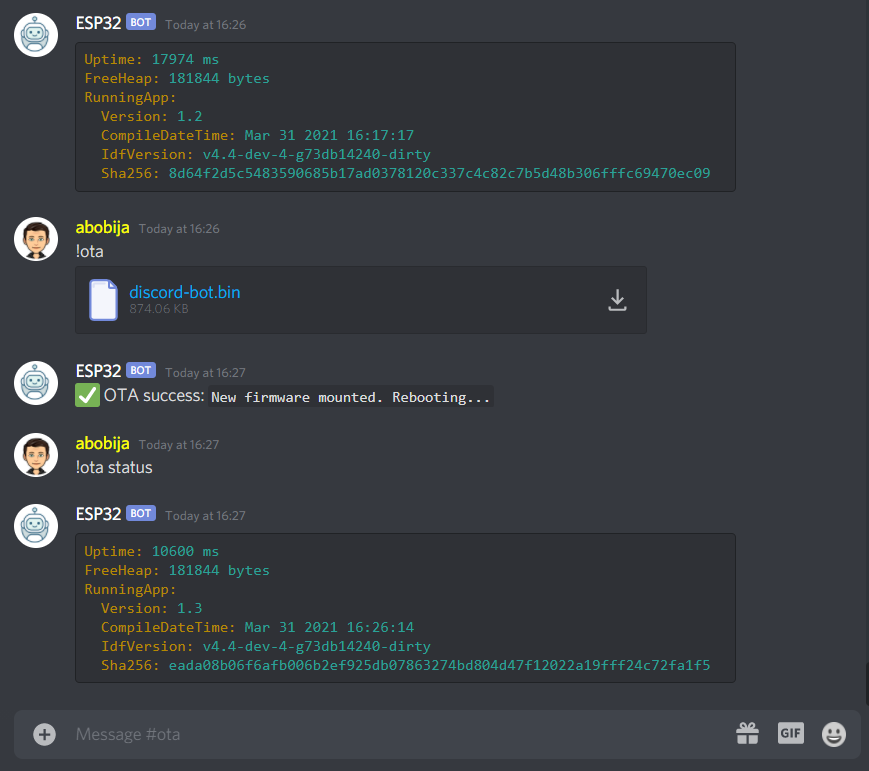
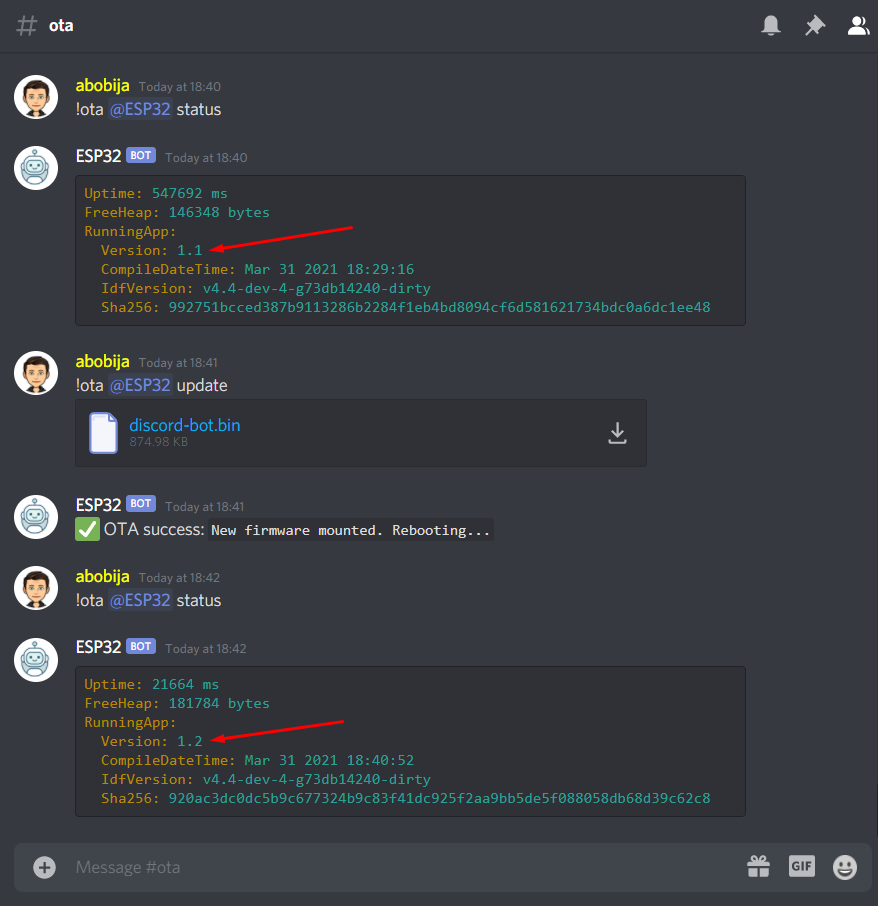
Ota example updated to new cmd format

diff --git a/ota/README.md b/ota/README.md
@@ -25,36 +25,35 @@ For more examples please visit [esp-discord-examples](https://github.com/abobija
 Output:
 
 ```
-I (7055) discord_bot: Bot ESP32#9116 connected (session_id=2dfbe4a310a55bad9d3a5e0b0dbe212b)
-I (18505) discord_bot: New message (content=!ota status, autor=abobija#5474, bot=false, attachments_len=0, channel=826475710482350080, dm=false, guild=805838862634451014)
-I (73105) discord_bot: New message (content=!ota, autor=abobija#5474, bot=false, attachments_len=1, channel=826475710482350080, dm=false, guild=805838862634451014)
-I (73115) DISCORD: discord_ota: Checking admin permissions...
-I (73425) DISCORD: discord_ota: Gathering new firmware informations...
-I (76595) DISCORD: ota_image: Firmware versions(new=1.3, running=1.2, last_invalid=NULL)
-I (76595) DISCORD: ota_download_handler: Firmware downloading (size=895040 B)...
-I (78285) DISCORD: ota_download_handler: Downloaded 9%
-I (79875) DISCORD: ota_download_handler: Downloaded 18%
-I (81755) DISCORD: ota_download_handler: Downloaded 27%
-I (84105) DISCORD: ota_download_handler: Downloaded 36%
-I (86465) DISCORD: ota_download_handler: Downloaded 45%
-I (88735) DISCORD: ota_download_handler: Downloaded 54%
-I (91115) DISCORD: ota_download_handler: Downloaded 63%
-I (93455) DISCORD: ota_download_handler: Downloaded 72%
-I (95805) DISCORD: ota_download_handler: Downloaded 81%
-I (98215) DISCORD: ota_download_handler: Downloaded 90%
-I (100565) DISCORD: ota_download_handler: Downloaded 99%
-I (100725) DISCORD: ota_download_handler: Downloaded 100%
-I (100725) DISCORD: discord_ota: Validating...
-I (100735) esp_image: segment 0: paddr=00110020 vaddr=3f400020 size=2187ch (137340) map
-I (100785) esp_image: segment 1: paddr=001318a4 vaddr=3ffb0000 size=042b0h ( 17072)
-I (100785) esp_image: segment 2: paddr=00135b5c vaddr=40080000 size=0a4bch ( 42172)
-I (100805) esp_image: segment 3: paddr=00140020 vaddr=400d0020 size=9f160h (651616) map
-I (101015) esp_image: segment 4: paddr=001df188 vaddr=4008a4bc size=0b68ch ( 46732)
-I (101025) DISCORD: discord_ota: Mounting...
-I (101025) esp_image: segment 0: paddr=00110020 vaddr=3f400020 size=2187ch (137340) map
-I (101075) esp_image: segment 1: paddr=001318a4 vaddr=3ffb0000 size=042b0h ( 17072)
-I (101085) esp_image: segment 2: paddr=00135b5c vaddr=40080000 size=0a4bch ( 42172)
-I (101095) esp_image: segment 3: paddr=00140020 vaddr=400d0020 size=9f160h (651616) map
-I (101305) esp_image: segment 4: paddr=001df188 vaddr=4008a4bc size=0b68ch ( 46732)
-I (101345) DISCORD: discord_ota: New firmware mounted. Rebooting...
+I (548212) discord_bot: New message (content=!ota <@!824648671600967700> status, autor=abobija#5474, bot=false, attachments_len=0, channel=826475710482350080, dm=false, guild=805838862634451014)
+I (590302) discord_bot: New message (content=!ota <@!824648671600967700> update, autor=abobija#5474, bot=false, attachments_len=1, channel=826475710482350080, dm=false, guild=805838862634451014)
+I (590312) DISCORD: discord_ota: Checking admin permissions...
+I (590622) DISCORD: discord_ota: Gathering new firmware informations...
+I (593582) DISCORD: ota_image: Firmware versions(new=1.2, running=1.1, last_invalid=NULL)
+I (593582) DISCORD: ota_download_handler: Firmware downloading (size=895984 B)...
+I (594922) DISCORD: ota_download_handler: Downloaded 9%
+I (596342) DISCORD: ota_download_handler: Downloaded 18%
+I (597942) DISCORD: ota_download_handler: Downloaded 27%
+I (599792) DISCORD: ota_download_handler: Downloaded 36%
+I (601662) DISCORD: ota_download_handler: Downloaded 45%
+I (603502) DISCORD: ota_download_handler: Downloaded 54%
+I (605702) DISCORD: ota_download_handler: Downloaded 63%
+I (607542) DISCORD: ota_download_handler: Downloaded 72%
+I (609402) DISCORD: ota_download_handler: Downloaded 81%
+I (611272) DISCORD: ota_download_handler: Downloaded 90%
+I (613122) DISCORD: ota_download_handler: Downloaded 99%
+I (613242) DISCORD: ota_download_handler: Downloaded 100%
+I (613242) DISCORD: discord_ota: Validating...
+I (613242) esp_image: segment 0: paddr=00210020 vaddr=3f400020 size=218bch (137404) map
+I (613292) esp_image: segment 1: paddr=002318e4 vaddr=3ffb0000 size=042b0h ( 17072)
+I (613302) esp_image: segment 2: paddr=00235b9c vaddr=40080000 size=0a47ch ( 42108)
+I (613312) esp_image: segment 3: paddr=00240020 vaddr=400d0020 size=9f4d8h (652504) map
+I (613522) esp_image: segment 4: paddr=002df500 vaddr=4008a47c size=0b6cch ( 46796)
+I (613542) DISCORD: discord_ota: Mounting...
+I (613542) esp_image: segment 0: paddr=00210020 vaddr=3f400020 size=218bch (137404) map
+I (613592) esp_image: segment 1: paddr=002318e4 vaddr=3ffb0000 size=042b0h ( 17072)
+I (613592) esp_image: segment 2: paddr=00235b9c vaddr=40080000 size=0a47ch ( 42108)
+I (613612) esp_image: segment 3: paddr=00240020 vaddr=400d0020 size=9f4d8h (652504) map
+I (613822) esp_image: segment 4: paddr=002df500 vaddr=4008a47c size=0b6cch ( 46796)
+I (613862) DISCORD: discord_ota: New firmware mounted. Rebooting...
 ```
